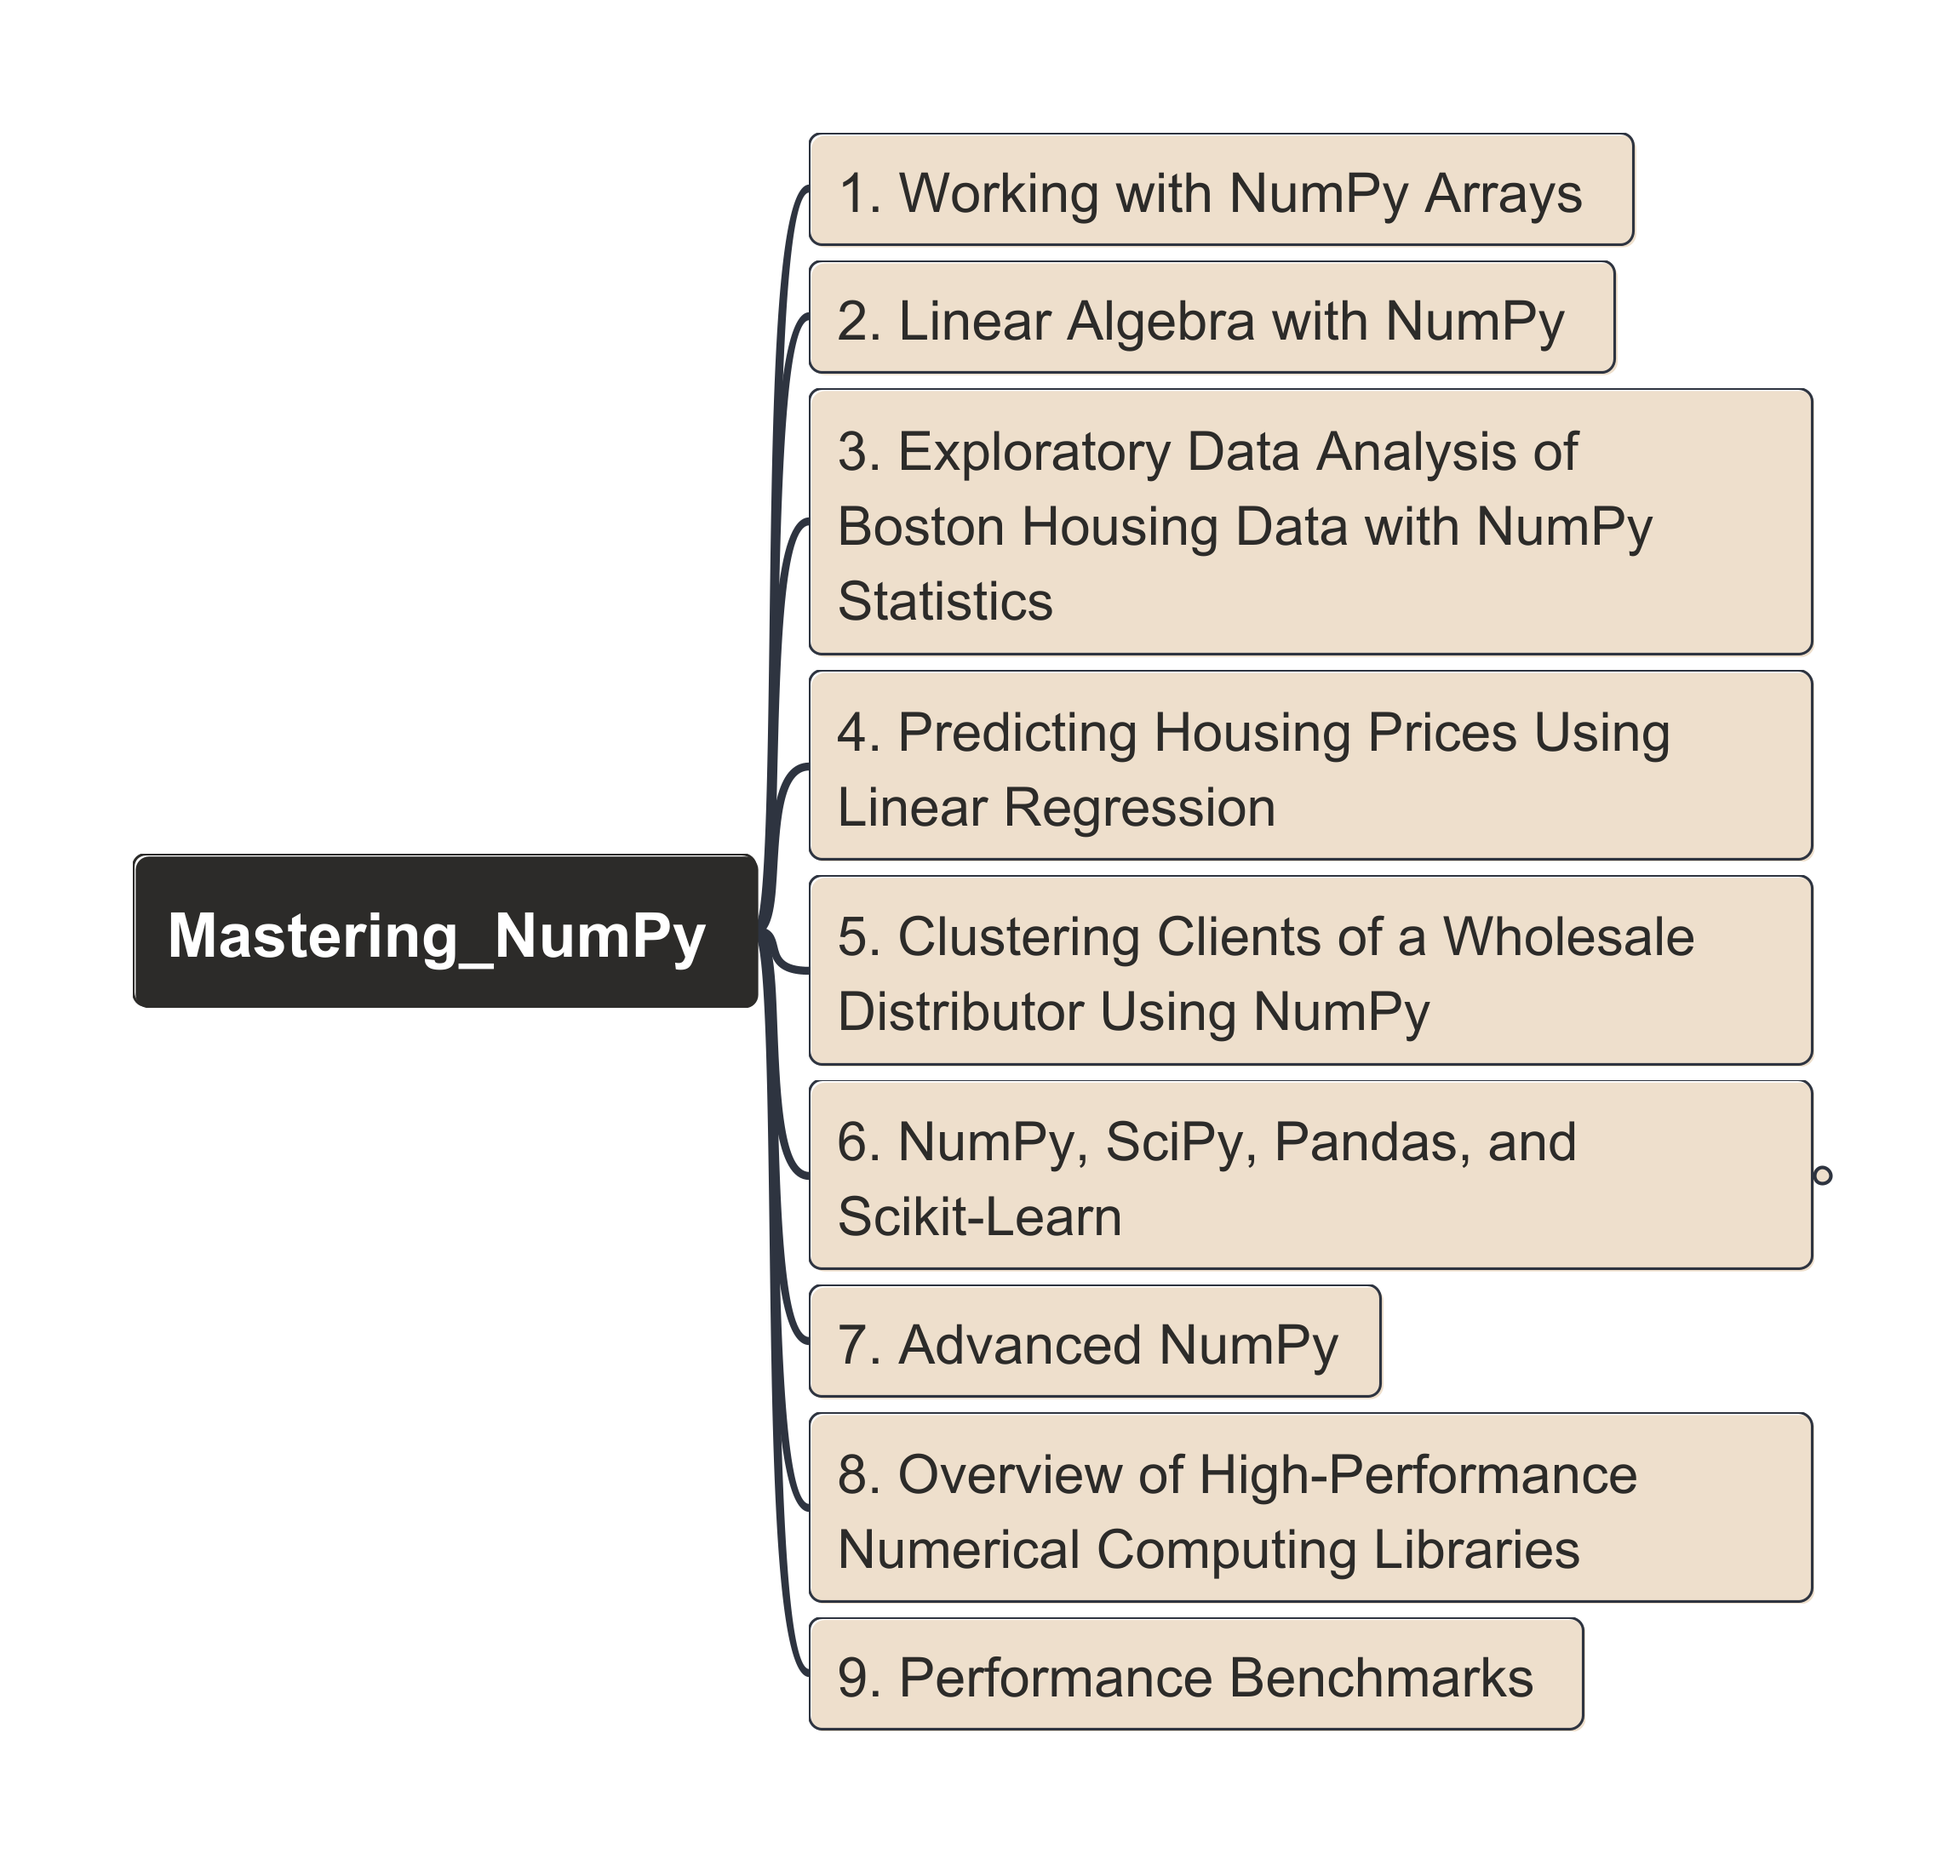
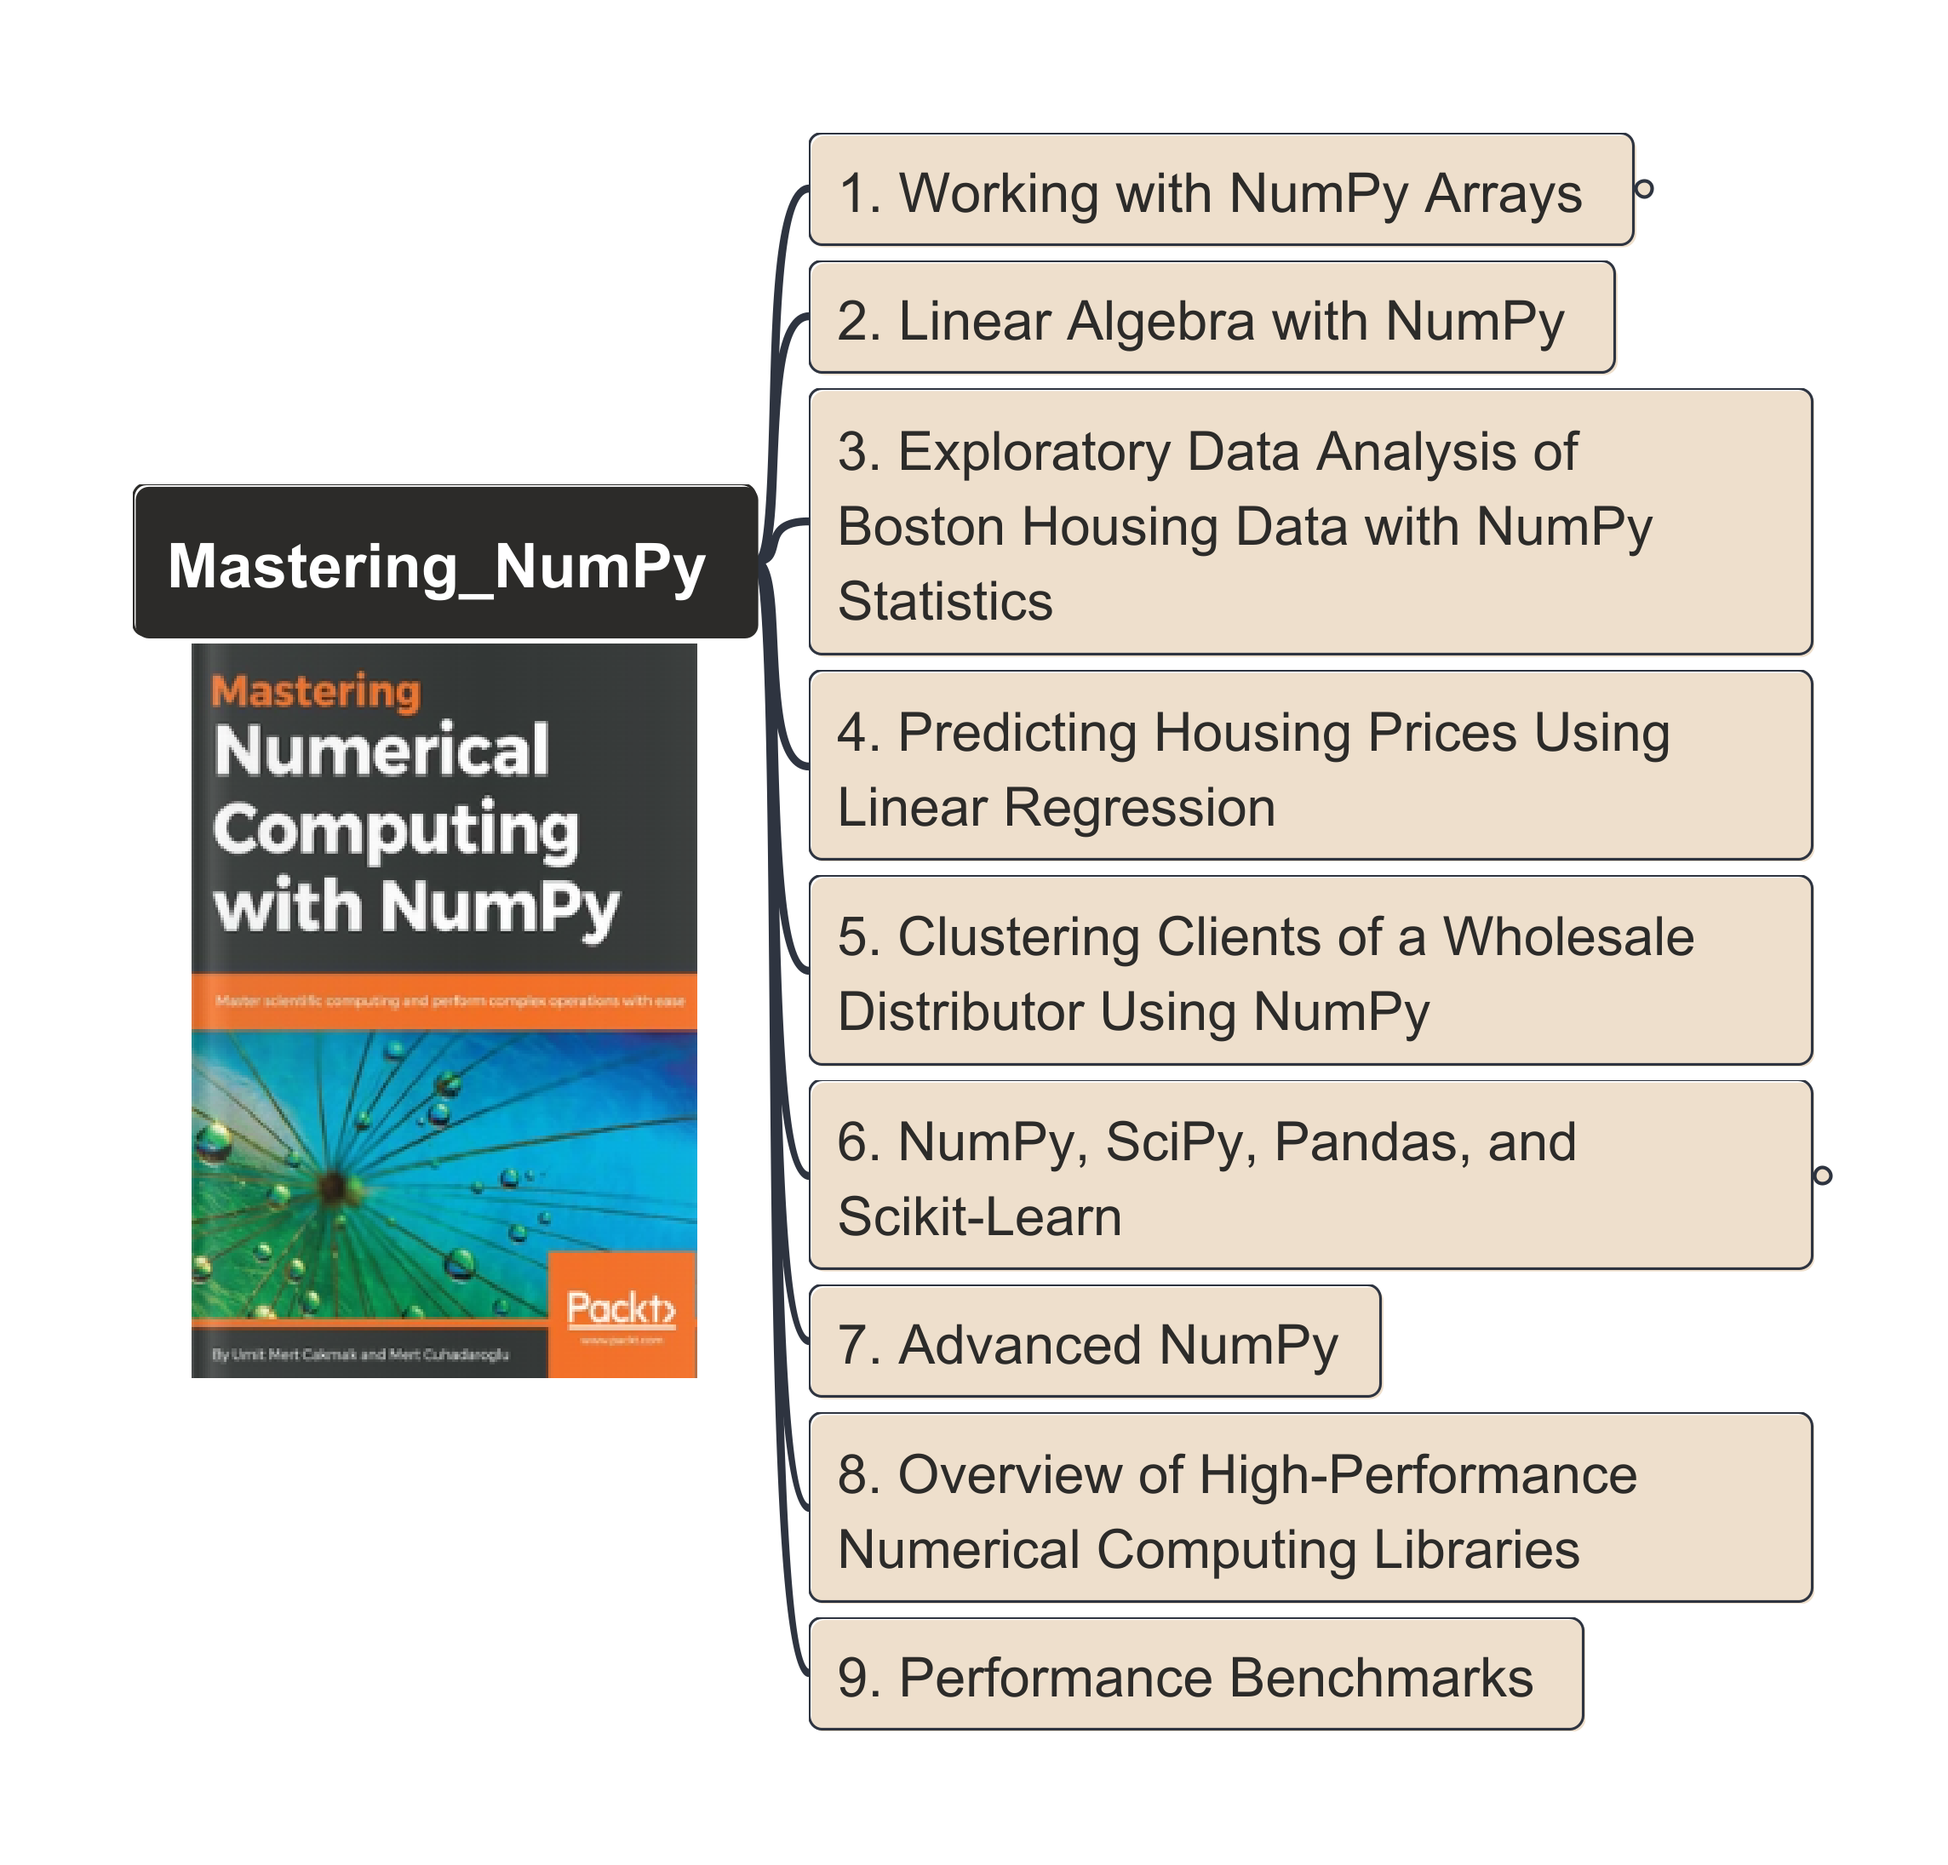
update image

Changed region(s): [[0.0621, 0.1241, 0.4344, 0.7449], [0.3724, 0.7759, 0.4344, 0.8069], [0.4034, 0.0931, 0.4344, 0.1241]]

diff --git a/math/Mastering_Numpy/Mastering_Numpy.mm b/math/Mastering_Numpy/Mastering_Numpy.mm
@@ -81,7 +81,16 @@
 </hook>
 <hook NAME="accessories/plugins/AutomaticLayout.properties" VALUE="ALL"/>
 <font BOLD="true"/>
-<node TEXT="1. Working with NumPy Arrays" POSITION="bottom_or_right" ID="ID_1121428479" CREATED="1767529686054" MODIFIED="1767529697297"/>
+<node TEXT="1. Working with NumPy Arrays" POSITION="bottom_or_right" ID="ID_1121428479" CREATED="1767529686054" MODIFIED="1767529697297">
+<node TEXT="1.1 Technical Requirements" ID="ID_1207448411" CREATED="1767530278593" MODIFIED="1767530283781"/>
+<node TEXT="1.2 Why do we need NumPy?" ID="ID_1445032302" CREATED="1767530283929" MODIFIED="1767530292916"/>
+<node TEXT="1.3 Who uses NumPy?" ID="ID_1248495472" CREATED="1767530293057" MODIFIED="1767530298972"/>
+<node TEXT="1.4 Introduction to Vectors and Matrices" ID="ID_1875695192" CREATED="1767530299193" MODIFIED="1767530308836"/>
+<node TEXT="1.5 Basics of NumPy Array Objects" ID="ID_1257957981" CREATED="1767530309153" MODIFIED="1767530320938"/>
+<node TEXT="1.6 NumPy Array Operations" ID="ID_727838673" CREATED="1767530321576" MODIFIED="1767530331379"/>
+<node TEXT="1.7 Working with Multi-Dimensional Arrays" ID="ID_764375635" CREATED="1767530331536" MODIFIED="1767530342859"/>
+<node TEXT="1.8 Indexing, Slicing, ReShaping, Resizing, and BroadCasting" ID="ID_1947605578" CREATED="1767530343032" MODIFIED="1767530359372"/>
+</node>
 <node TEXT="2. Linear Algebra with NumPy" POSITION="bottom_or_right" ID="ID_1477855336" CREATED="1767529702805" MODIFIED="1767529714377"/>
 <node TEXT="3. Exploratory Data Analysis of Boston Housing Data with NumPy Statistics" POSITION="bottom_or_right" ID="ID_911487320" CREATED="1767529717758" MODIFIED="1767529733033"/>
 <node TEXT="4. Predicting Housing Prices Using Linear Regression" POSITION="bottom_or_right" ID="ID_1936132074" CREATED="1767529735814" MODIFIED="1767529748458"/>
